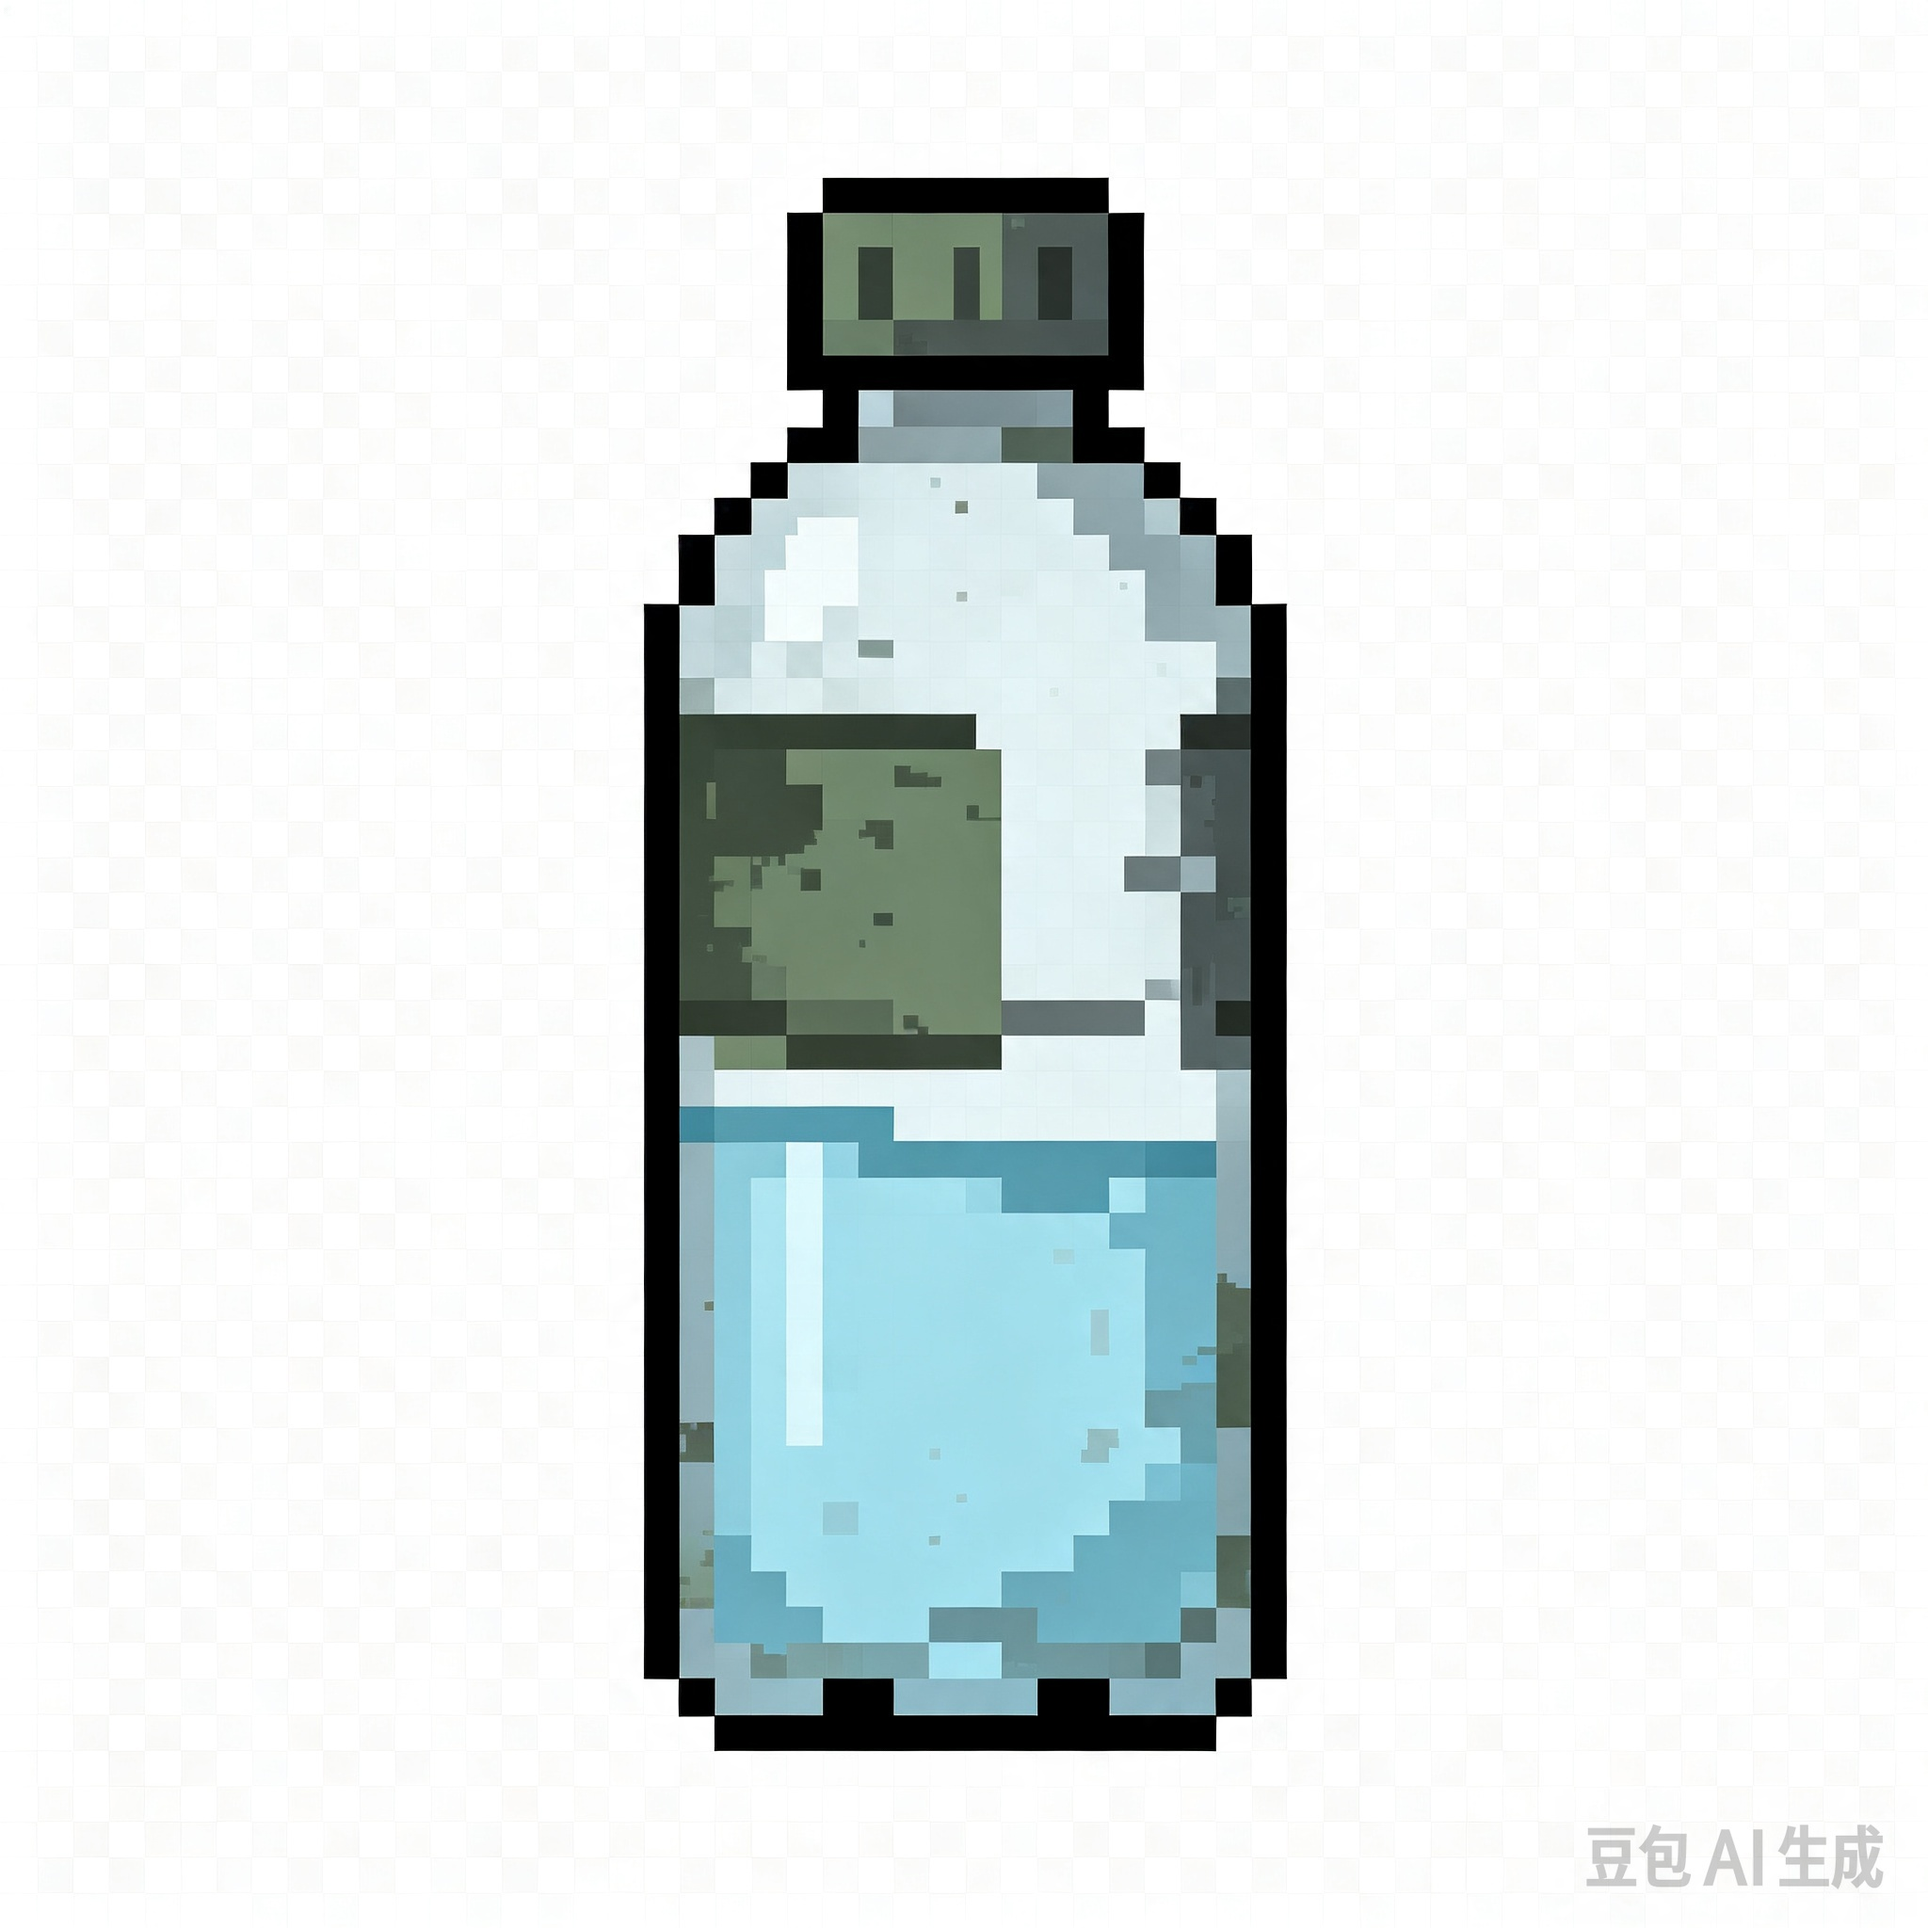
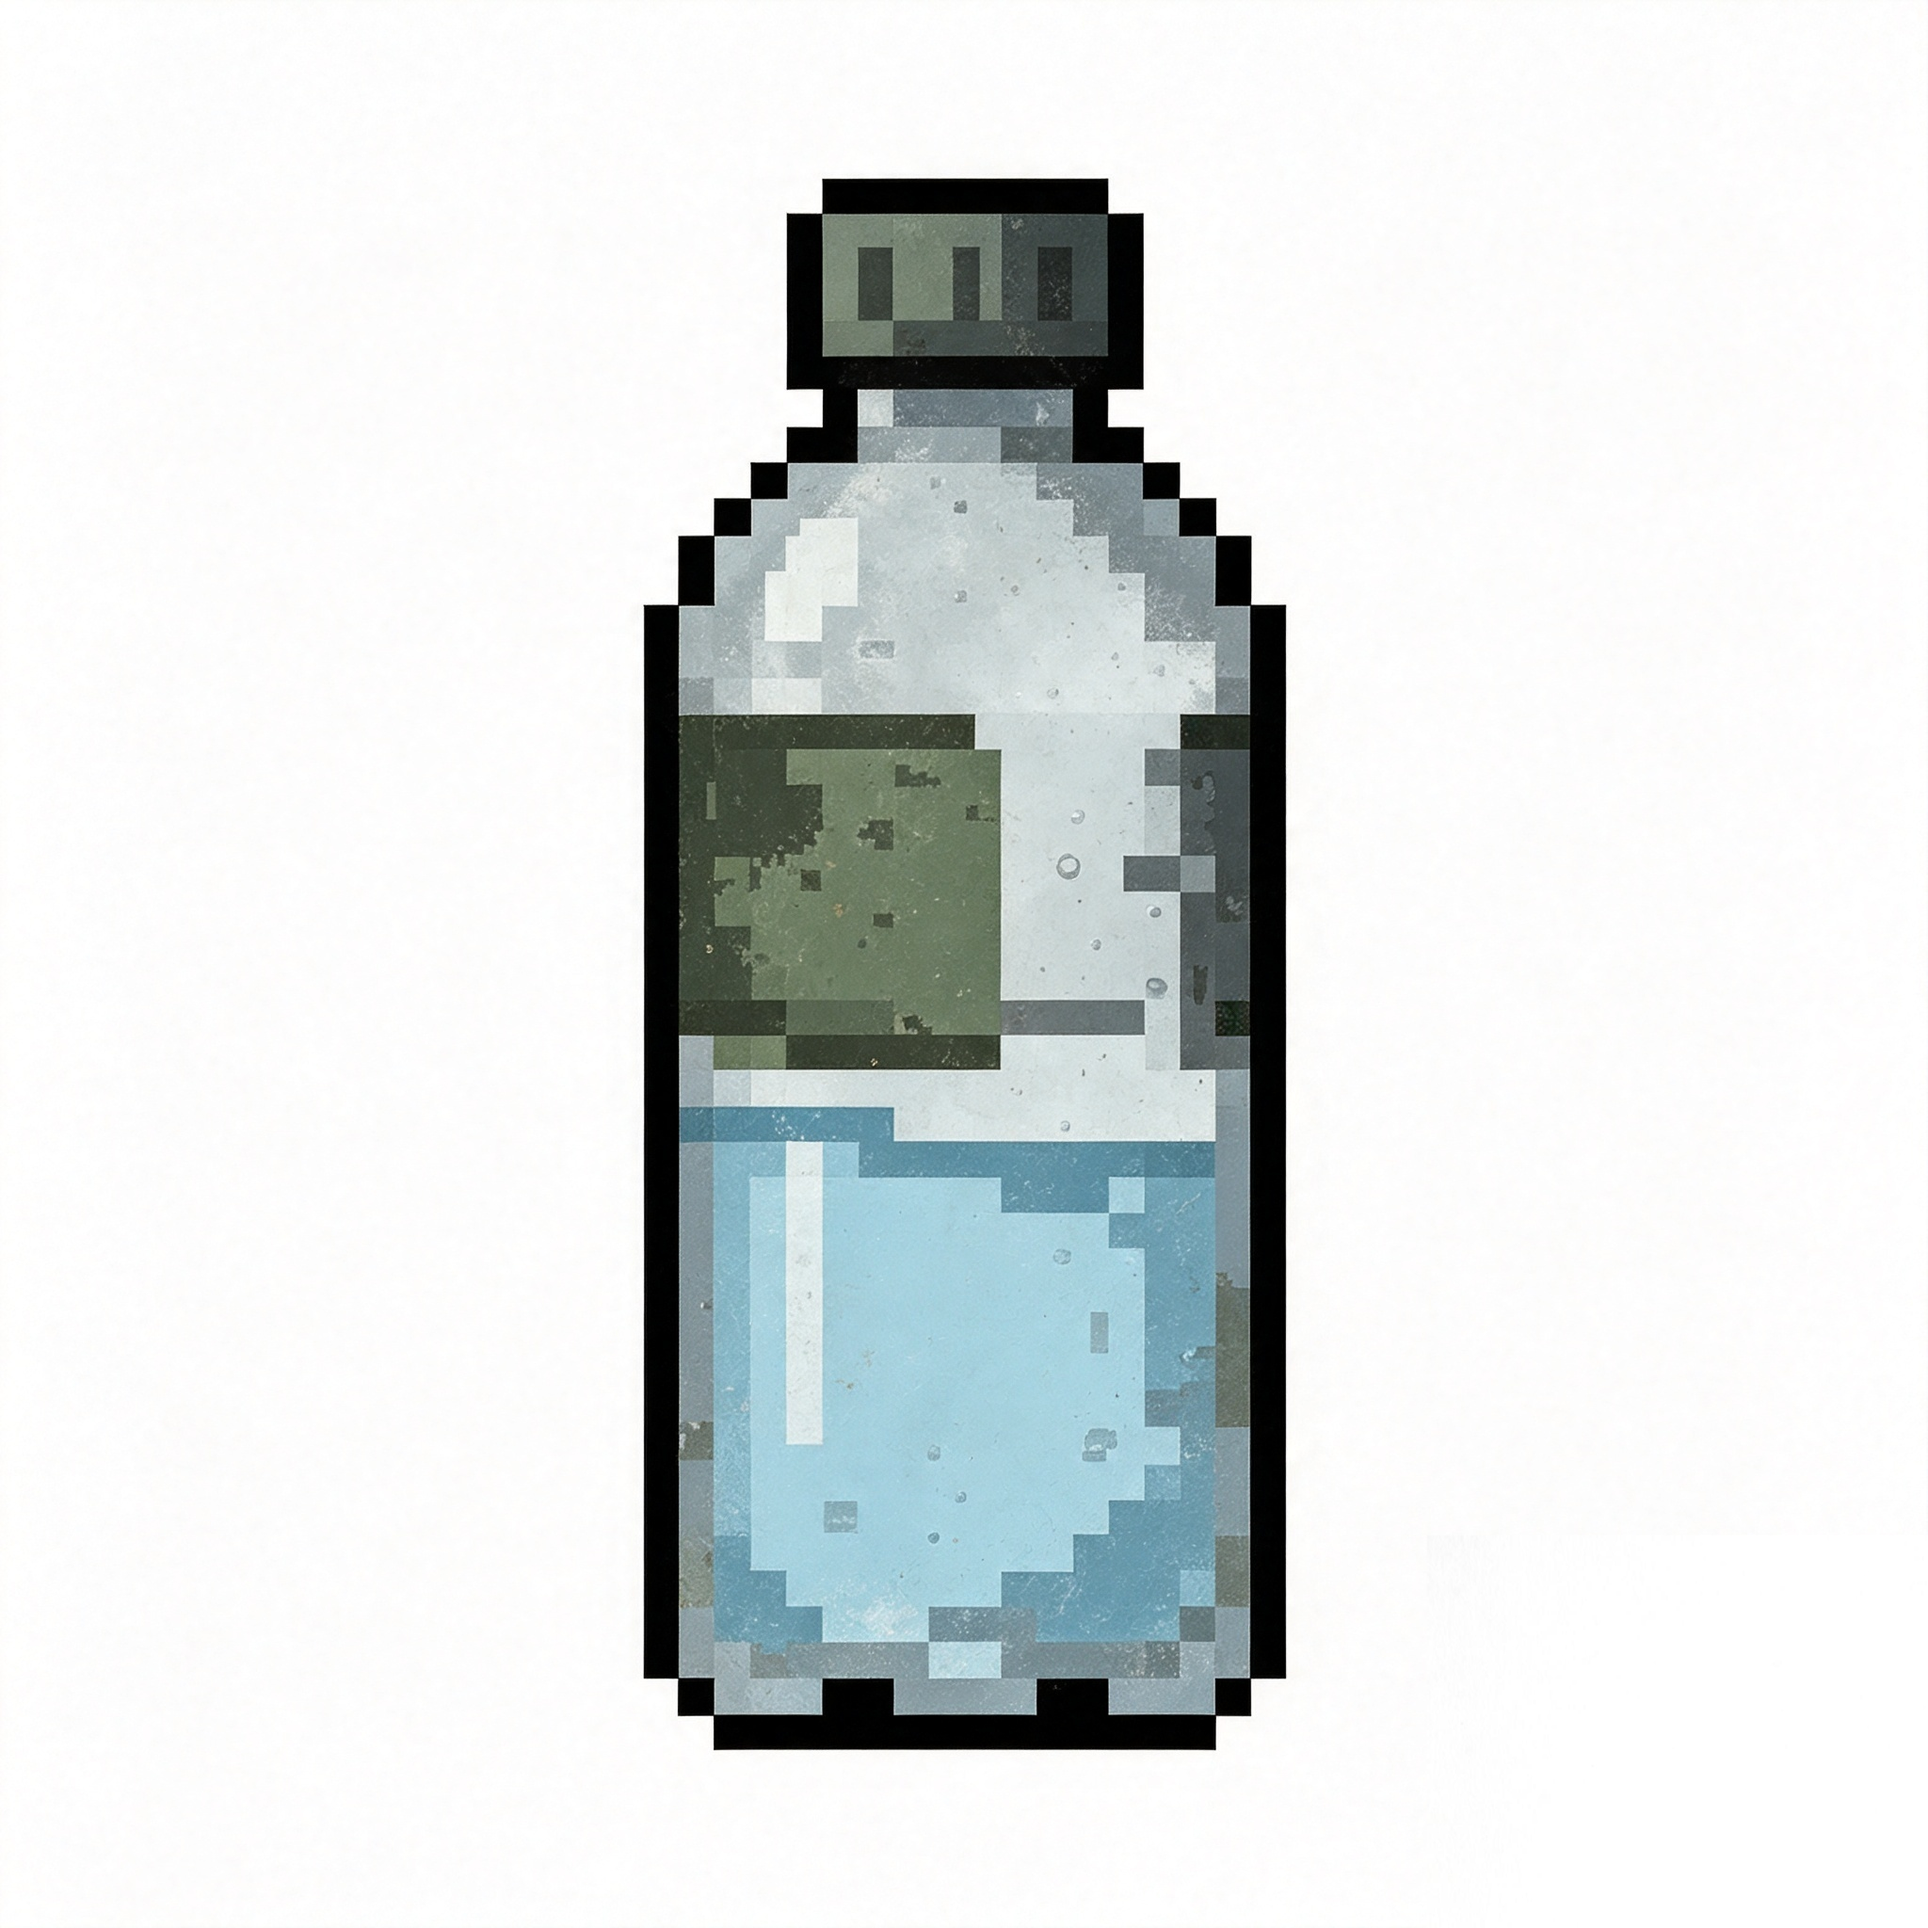
Use the new item artwork across the shelf

Changed region(s): [[0.3438, 0.1875, 0.6562, 0.9062], [0.8125, 0.9375, 1.0, 1.0], [0.5, 0.125, 0.5312, 0.1562]]

diff --git a/js/ui.js b/js/ui.js
@@ -7,7 +7,7 @@
   var C = SF.CONFIG;
 
   // 版本号：每次改动都往后加一，方便确认页面是不是最新版
-  var BUILD = 'v47';
+  var BUILD = 'v48';
   var loadNoticeDay = 0;
 
   // 货架上固定摆这四层
@@ -261,18 +261,20 @@
 
   /* 没拿到就是灰色虚线空槽，拿到了才是彩色图标 */
   function shelfSlot(sl) {
-    var radioSrc = (SF.itemSrc && SF.itemSrc['assets/item-radio.png']) ||
-      KEYED['assets/item-radio.png'] || 'assets/item-radio.png';
-
-    var iconHtml = sl.key === 'radio'
-      ? '<img class="shelf-img" src="' + radioSrc + '" alt="">'
-      : SF.icon(sl.key, 30);
+    var hasImg = SF.itemHasImage && SF.itemHasImage(sl.key);
+    var iconHtml = SF.itemSvg(sl.key, 30);
 
     if (!sl.has) {
+      if (hasImg) {
+        return '<button type="button" class="inv-cell inv-tool is-ghost" data-item="' +
+          sl.key + '" title="' + sl.tip + '">' +
+          '<span class="inv-ico">' + iconHtml + '</span>' +
+          '</button>';
+      }
+
       return '<button type="button" class="inv-cell inv-tool is-ghost" data-item="' +
         sl.key + '" title="' + sl.tip + '">' +
-        (sl.key === 'radio' ? '<span class="inv-ico">' + iconHtml + '</span>'
-          : '<span class="ghost-label">' + sl.label + '</span>') +
+        '<span class="ghost-label">' + sl.label + '</span>' +
         '</button>';
     }
 

diff --git a/index.html b/index.html
@@ -149,11 +149,11 @@
 
 </div>
 
-<script src="js/config.js?v=47"></script>
-<script src="js/game.js?v=47"></script>
-<script src="js/art.js?v=47"></script>
-<script src="js/sfx.js?v=47"></script>
-<script src="js/save.js?v=47"></script>
-<script src="js/ui.js?v=47"></script>
+<script src="js/config.js?v=48"></script>
+<script src="js/game.js?v=48"></script>
+<script src="js/art.js?v=48"></script>
+<script src="js/sfx.js?v=48"></script>
+<script src="js/save.js?v=48"></script>
+<script src="js/ui.js?v=48"></script>
 </body>
 </html>

diff --git a/js/art.js b/js/art.js
@@ -355,8 +355,16 @@ var ITEMS = {
 
 /* 支持用图片替换某个物资的图标（没有配图片就继续用代码画） */
 var ITEM_IMAGES = {
+  food: 'assets/item-food.png',
   water: 'assets/item-water.png',
+  medicine: 'assets/item-medicine.png',
+  material: 'assets/item-wood.png',
+  flashlight: 'assets/item-flashlight.png',
   radio: 'assets/item-radio.png'
+};
+
+SF.itemHasImage = function (key) {
+  return !!(ITEM_IMAGES && ITEM_IMAGES[key]);
 };
 
 SF.itemSrc = {};
